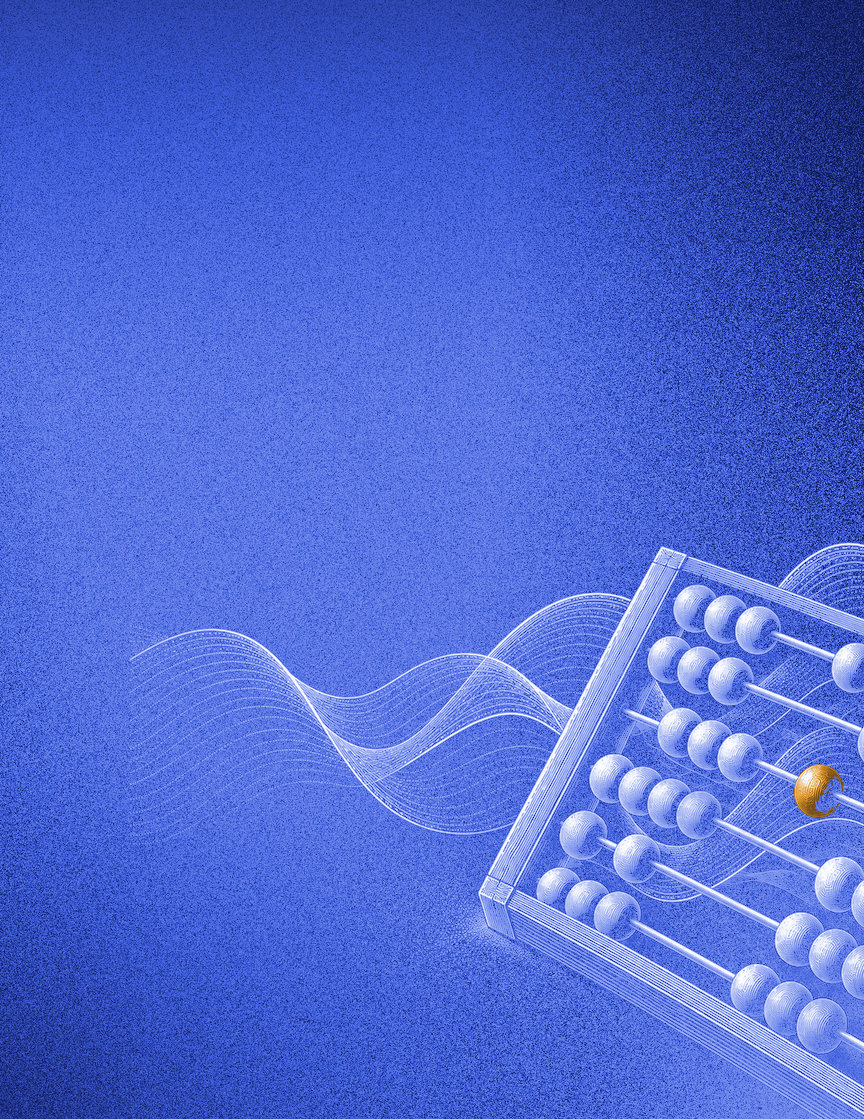
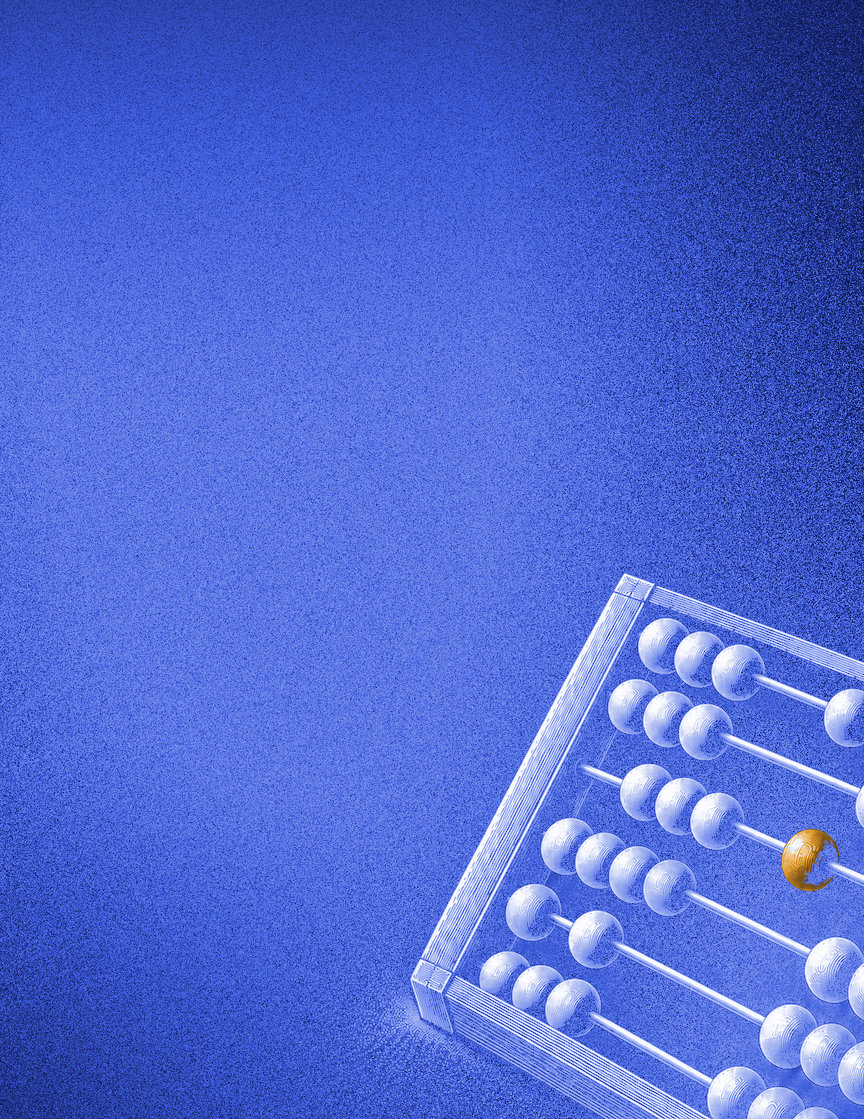
The 0.6.0 abacus art drops its waves
The cover and the release card's cover show the abacus alone, one bead amber, in the brand's
tones.

diff --git a/site/cards.py b/site/cards.py
@@ -329,7 +329,7 @@ COVERS = {
     "docs": "the pages of a vast atlas fanning open, one edge amber like a bookmark",
     "methods": "a prism fanning one beam into many rays, one amber",
     "tide": "the moon over a swelling sea, its light an amber path on the waves",
-    "abacus": "an abacus whose beads sit on smooth waves, one bead amber",
+    "abacus": "an abacus seen at an angle, one bead amber",
     "ground": "the stipple ground",
 }
 BANNER_LEFT = 104  # the text column's left edge, at the cover's height

diff --git a/site/brand/README.md b/site/brand/README.md
@@ -26,8 +26,7 @@
     waves are amber. `art-tide-center.jpg` is the same art with the moon in the middle, the post's
     cover and thumbnail (`CENTERED` in `site/cards.py`).
   - `art-abacus.jpg`: 0.6.0, a Russian schoty in engraved lines, tilted across the frame, its
-    beads on rods and smooth waves running through and behind it: categories meeting continuous
-    values. One bead is amber.
+    beads on rods like categories counted out. One bead is amber.
   - `art-methods.jpg`: the homepage's All-in-one, the prism of `bento/methods.jpg`, one beam
     fanning into many rays, the level ray out of the prism drawn amber. It is scaled from that
     crop to the cover's size, so it is softer than the others until the art is drawn again at
